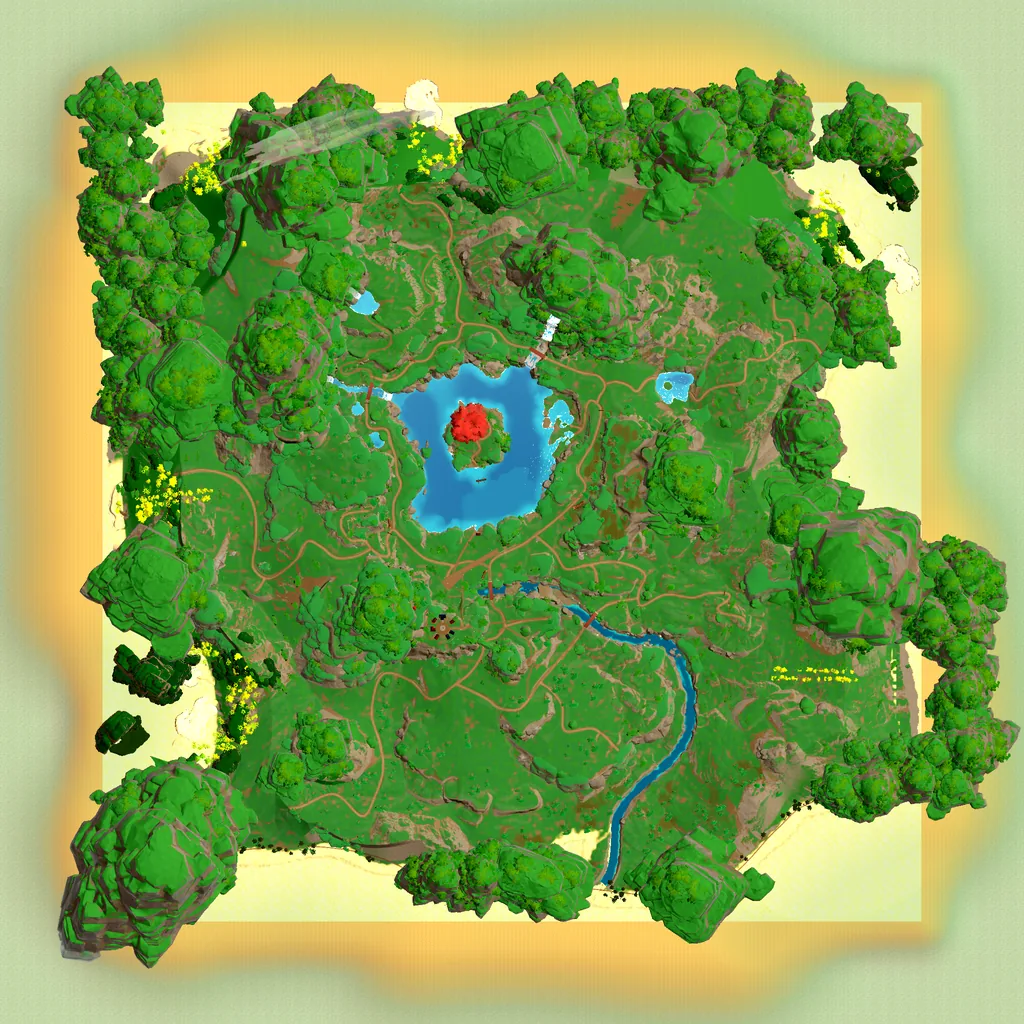
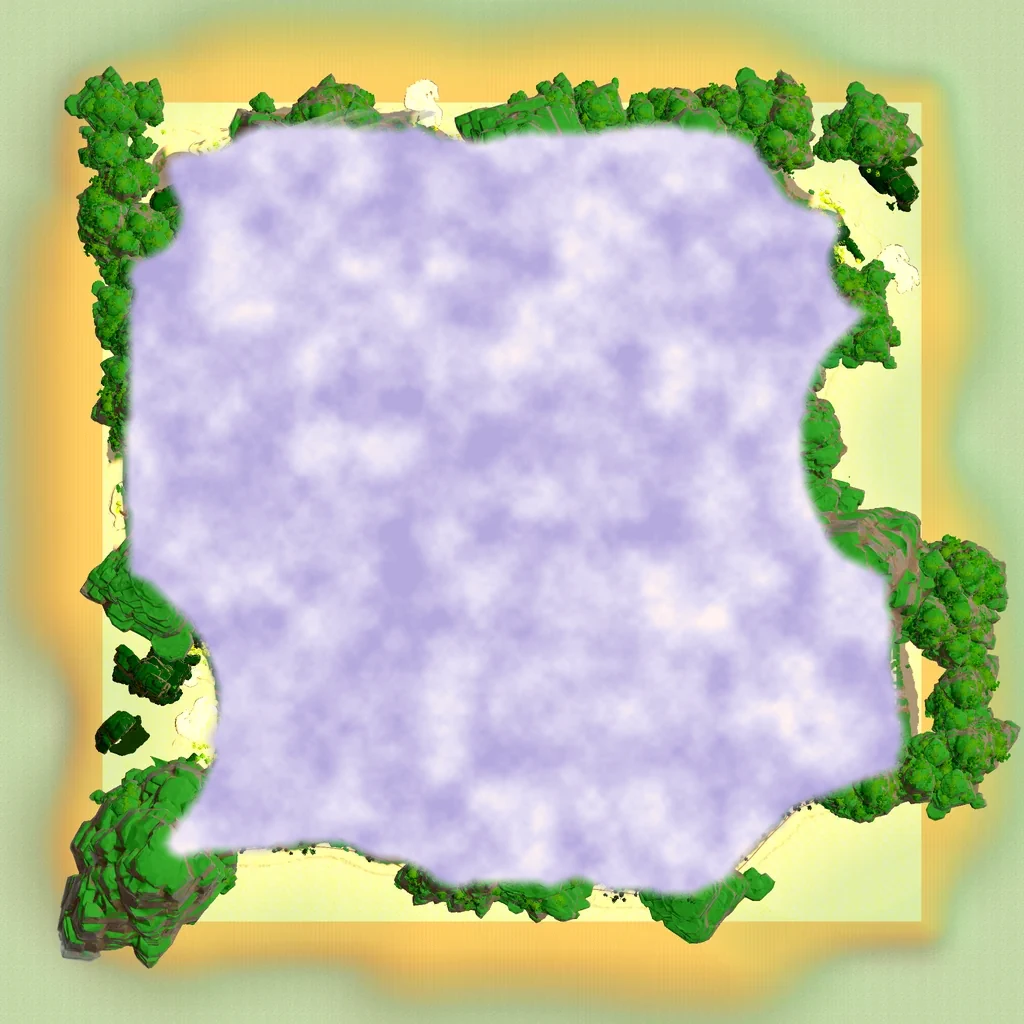
Cartes des îles PRIVÉES (pas publié) : le dépôt du site est public, la vraie carte n'y est plus — assets/pegase/ile_3d_* et carte_ile_* retirés ; la page de Pégase lit « pg:carte/<fichier> » dans le seau privé « pegase-cartes » du Storage avec le jeton du membre (pgCarte ; refusée ou absente : le de

diff --git a/source/shell2.js b/source/shell2.js
@@ -1122,6 +1122,7 @@ const CALLG = { seen: new Map(), cur: null, at: 0, polling: false, ringT: 0, too
 const TABS = { ch: null, hubAt: 0, sayAt: 0, ringRel: null, ringRetry: 0 };
 try { TABS.ch = new BroadcastChannel('jdw-appels'); } catch (e) { TABS.ch = null; }
 const tabSay = (m) => { try { if (TABS.ch) TABS.ch.postMessage(m); } catch (e) {} };
+if (window.JDW_PG_TEST) window.__jdwIsle = (cv, seed, q) => isleArt(cv, seed, 0, q);   // outils et essais seulement (vitrine.js)
 if (window.JDW_PG_TEST) window.__jdwT = { CALLG, ACCT, TABS, poll: () => { CALLG.at = 0; return callgPoll(); } };   // essais seulement (comme __pgCALL du hub)
 if (TABS.ch) TABS.ch.onmessage = (e) => {
   const m = (e && e.data) || {};
@@ -5692,8 +5693,10 @@ function pgvBook() {
   </div><p class="bk-glisse" aria-hidden="true">Glisse pour tourner la page →</p>`;
 }
 // L'ÎLE DE PÉGASE EN 3D AVEC LA MER (vitrine, 1.46.13 ; PATOU : « l'île, il faut l'afficher avec l'eau maintenant qu'elle est belle ! ») :
-// WebGL 1 sans bibliothèque. Relief = accueil/pgv-ile-h.png (256², hauteur 16 bits : R octet fort, G faible ; export du jeu), couleurs =
-// accueil/pgv-ile-couleur.webp (carte vue de dessus, nord en haut). Mer : turquoise et transparente près du bord (on voit le fond), bleu
+// WebGL 1 sans bibliothèque. Relief = accueil/pgv-ile-h.png (256², hauteur 16 bits : R octet fort, G faible), couleurs =
+// accueil/pgv-ile-couleur.webp (vue de dessus, nord en haut). ⛔ 28 oct. 2026 : ce sont les versions SOUS LA MER DE NUAGES (outil
+// ~/jdv-tools/ilo-a-venir/v4/ile3d_nuages.js) : la mer, les plages et la côte de la vraie île, l'intérieur en dôme de cumulus ; la vraie carte et le
+// vrai relief ne sont plus publics (le dépôt est public). Mer : turquoise et transparente près du bord (on voit le fond), bleu
 // profond au large, écume sur les plages, reflets du soleil, bord rond qui se fond dans la page. Tourne lentement ; ne dessine que
 // visible ; mouvement réduit = image fixe ; sans WebGL = l'image d'avant (repli dans le HTML).
 const PGV_ILE = { cote: 2250, min: -46.4, max: 193.95, mer: 14, ex: 1.25 };   // export de Pégase (ilot/hauteurs.txt, 27 oct. 2026) : carré de 2250 m, mer à 14 m
@@ -5867,7 +5870,7 @@ function pgvBuild() {
       <p>Ton avatar se prépare ici, dans la borne, et te suit dans le jeu.</p>
       <button type="button" class="pgv-btn ghost" data-go="isles">🏝 Voir les îles</button>
     </div>
-    <div class="pgv-isl pgv-rv"><img loading="lazy" decoding="async" alt="L’île de Pégase vue du ciel : le lac, l’arbre rouge, la rivière et les falaises" width="1024" height="694" src="${ROOT}assets/pegase/ile_3d_1024.webp" srcset="${ROOT}assets/pegase/ile_3d_1024.webp 1024w, ${ROOT}assets/pegase/ile_3d_2048.webp 2048w" sizes="(max-width: 760px) 100vw, 50vw"></div>
+    <div class="pgv-isl pgv-rv"><img loading="lazy" decoding="async" alt="L’île de Pégase vue du ciel, sous sa mer de nuages : on la découvre en l’explorant" width="1024" height="694" src="${ROOT}assets/pegase/ile_nuages_1024.webp" srcset="${ROOT}assets/pegase/ile_nuages_1024.webp 1024w, ${ROOT}assets/pegase/ile_nuages_2048.webp 2048w" sizes="(max-width: 760px) 100vw, 50vw"></div>
   </section>
   <section class="pgv-band music pgv-slide pgv-rv" aria-labelledby="pgv-h5">${pgvImg('prairie', 'La prairie la nuit sous la Voie lactée, les fleurs et les falaises', WF)}<div class="pgv-bandtx">
     <p class="pgv-kick">Musique</p><h3 class="pgv-h" id="pgv-h5">Une musique enchanteresse</h3>
@@ -6095,7 +6098,8 @@ function isleArt(cv, seed, players, q) {
       const im = new Image(); im.crossOrigin = 'anonymous'; im.decoding = 'async';
       im.onload = () => { ISLE_PHOTOS.set(tries[i], im); ok(im); };
       im.onerror = () => next(i + 1);
-      im.src = tries[i];
+      if (pgCarteOk(tries[i])) pgCarte(tries[i]).then((u) => { im.src = u; }, () => next(i + 1));   // carte privée (membre)
+      else im.src = tries[i];
     };
     next(0);
     const x0 = cv.getContext('2d'); cv.width = cv.clientWidth || 300; cv.height = cv.clientHeight || 170; x0.fillStyle = '#0a4f78'; x0.fillRect(0, 0, cv.width, cv.height);   // en attendant la photo
@@ -6310,16 +6314,33 @@ function isleNoise(x, y) {
 function isleFbm3(x, y) { return isleNoise(x * 0.866 - y * 0.5, x * 0.5 + y * 0.866) * 0.57 + isleNoise((x * 0.34 + y * 0.94) * 2.03 + 5.2, (-x * 0.94 + y * 0.34) * 2.03 + 1.3) * 0.29 + isleNoise((x * 0.98 - y * 0.2) * 4.1 + 9.1, (x * 0.2 + y * 0.98) * 4.1 + 3.7) * 0.14; }
 function isleFbm(x, y) { let s = 0, amp = 0.5, f = 1; for (let o = 0; o < 5; o++) { const c = Math.cos(o * 0.9), sn = Math.sin(o * 0.9); s += amp * isleNoise((x * c - y * sn) * f + o * 3.1, (x * sn + y * c) * f + o * 1.7); f *= 2.03; amp *= 0.5; } return s / 0.97; }
 // la côte du rendu 3D : liste en ligne ([[x, y], …] ou { p: […] }) ou adresse d'un .json (gardé en mémoire) ; null tant qu'elle manque
+// CARTES PRIVÉES (28 oct. 2026 ; le dépôt du site est PUBLIC : la vraie carte n'y est plus) : le serveur donne aux MEMBRES « pg:carte/<fichier> »
+// (pegase_int.ile_photo_monde) ; la page la lit dans le seau PRIVÉ « pegase-cartes » du Storage avec le jeton du compte (règle « pg cartes lire » : un compte
+// dont un pseudo habite une île). Gardée en mémoire le temps de la page seulement (rien dans les caches du navigateur). Refusée, absente : le dessin.
+const PG_CARTES = new Map();
+const pgCarteOk = (v) => typeof v === 'string' && /^pg:carte\/[a-z0-9_-]{2,60}\.(webp|jpg|json)$/.test(v);
+function pgCarte(v, json) {
+  if (!pgCarteOk(v)) return Promise.reject(new Error('carte : chemin refusé'));
+  const k = v + (json ? '#j' : ''); if (PG_CARTES.has(k)) return PG_CARTES.get(k);
+  const pr = (async () => {
+    const tok = await acctToken(profile); if (!tok) throw Object.assign(new Error('carte : compte requis'), { guest: true });
+    const r = await netFetch(CFG.url.replace(/\/+$/, '') + '/storage/v1/object/authenticated/pegase-cartes/' + v.slice(9), { headers: { apikey: CFG.key, Authorization: 'Bearer ' + tok } });   // « pg:carte/<fichier> »
+    if (!r.ok) throw Object.assign(new Error('carte ' + r.status), { status: r.status });
+    return json ? r.json() : URL.createObjectURL(await r.blob());
+  })();
+  PG_CARTES.set(k, pr); pr.catch(() => PG_CARTES.delete(k));
+  return pr;
+}
 const ISLE_JSON = new Map(), ISLE_JSON_WAIT = new Map();
 function isleJsonNow(v, check, again) {   // objet en ligne, ou adresse https d'un .json (chargé une fois, puis on redessine)
   if (!v) return null;
   if (typeof v !== 'string') return check(v);
-  if (!/^https:\/\//.test(v)) return null;
+  if (!/^https:\/\//.test(v) && !pgCarteOk(v)) return null;
   const got = ISLE_JSON.get(v); if (got && got !== 'wait') return got === 'bad' ? null : check(got);
   // TOUTES les cartes qui l'attendent sont redessinées quand il arrive (ou qu'il ne vient pas) : les îles ont la même photo, donc les mêmes .json,
   // et seule la première était redessinée (28 oct. 2026 : les autres restaient sans leurs nuages, la vraie carte en clair)
   if (again) { const ws = ISLE_JSON_WAIT.get(v) || []; ws.push(again); ISLE_JSON_WAIT.set(v, ws); }
-  if (!got) { ISLE_JSON.set(v, 'wait'); fetch(v).then(r => (r.ok ? r.json() : null)).catch(() => null).then((j) => { ISLE_JSON.set(v, j && check(j) ? j : 'bad'); const ws = ISLE_JSON_WAIT.get(v) || []; ISLE_JSON_WAIT.delete(v); for (const f of ws) try { f(); } catch (e) {} }); }
+  if (!got) { ISLE_JSON.set(v, 'wait'); (pgCarteOk(v) ? pgCarte(v, true) : fetch(v).then(r => (r.ok ? r.json() : null))).catch(() => null).then((j) => { ISLE_JSON.set(v, j && check(j) ? j : 'bad'); const ws = ISLE_JSON_WAIT.get(v) || []; ISLE_JSON_WAIT.delete(v); for (const f of ws) try { f(); } catch (e) {} }); }
   return null;
 }
 const isleCoastOk = (v) => { const a = Array.isArray(v) ? v : v && Array.isArray(v.p) ? v.p : null; return a && a.length > 8 && a.every(q => Array.isArray(q) && q.length >= 2 && isFinite(q[0]) && isFinite(q[1])) ? a : null; };
@@ -6480,9 +6501,11 @@ function islePhoto(cv, im, q, seed, players) {
   isleRun(cv, (t) => {
     t /= 1000;
     if (lastC < 0 || t - lastC > 0.12) { clouds(t); lastC = t; }   // les nuages dérivent très lentement : 8 calculs par seconde suffisent
-    x.setTransform(1, 0, 0, 1, 0, 0); x.drawImage(seaC, 0, 0); x.setTransform(k, 0, 0, k, 0, 0);
-    for (const [sx, sy, l, p0, sp] of sparks) { const a = 0.5 + 0.5 * Math.sin(t * 2 * sp + p0); if (a < 0.35) continue; const xx = (sx + t * 6 * sp) % (w + 20) - 10; x.strokeStyle = 'rgba(255,255,255,' + (0.2 * a).toFixed(3) + ')'; x.lineWidth = 1; x.beginPath(); x.moveTo(xx, sy); x.lineTo(xx + l, sy); x.stroke(); }
-    const bob = Math.sin(t * 0.9) * 2.5;
+    // q.vitrine (outil ~/jdv-tools/ilo-a-venir/v4/vitrine.js : l'image FIXE de la présentation, 28 oct. 2026) : ni la mer du soir, ni ses reflets,
+    // ni le voile du bord ; l'île, sa côte, son écume et sa mer de nuages, sur fond transparent
+    x.setTransform(1, 0, 0, 1, 0, 0); if (q.vitrine) x.clearRect(0, 0, cv.width, cv.height); else x.drawImage(seaC, 0, 0); x.setTransform(k, 0, 0, k, 0, 0);
+    if (!q.vitrine) for (const [sx, sy, l, p0, sp] of sparks) { const a = 0.5 + 0.5 * Math.sin(t * 2 * sp + p0); if (a < 0.35) continue; const xx = (sx + t * 6 * sp) % (w + 20) - 10; x.strokeStyle = 'rgba(255,255,255,' + (0.2 * a).toFixed(3) + ')'; x.lineWidth = 1; x.beginPath(); x.moveTo(xx, sy); x.lineTo(xx + l, sy); x.stroke(); }
+    const bob = q.vitrine ? 0 : Math.sin(t * 0.9) * 2.5;
     // l'écume qui épouse la côte et roule vers la plage (carte plate)
     if (iso && cpx) {
       const n = cpx.length, nsd2 = ((seed >>> 0) % 991) * 0.17;
@@ -6504,7 +6527,7 @@ function islePhoto(cv, im, q, seed, players) {
     x.setTransform(1, 0, 0, 1, 0, 0); x.drawImage(islC, 0, bob * k);
     x.imageSmoothingEnabled = true; x.imageSmoothingQuality = 'high'; x.drawImage(nubB, 0, bob * k, cw * DS * k, chh * DS * k);
     x.setTransform(k, 0, 0, k, 0, 0);
-    x.fillStyle = rad(x, w / 2, h / 2, Math.min(w, h) * 0.5, w / 2, h / 2, Math.max(w, h) * 0.78, [0, 'rgba(0,0,0,0)', 1, 'rgba(0,10,25,.4)']); x.fillRect(0, 0, w, h);
+    if (!q.vitrine) { x.fillStyle = rad(x, w / 2, h / 2, Math.min(w, h) * 0.5, w / 2, h / 2, Math.max(w, h) * 0.78, [0, 'rgba(0,0,0,0)', 1, 'rgba(0,10,25,.4)']); x.fillRect(0, 0, w, h); }
   });
 }
 // le serveur des îles (pg_island_*, île = salle ; ~/jdv-tools/pegase/server/INTEGRATION-iles.md) ; tant qu'il n'est pas en ligne (404) :
@@ -6516,7 +6539,7 @@ const KIND = { publique: '🌍 Publique', mdp: '🔒 Mot de passe', amis: '💛 
 let islTickets = store.get('jdw.iletickets', {}) || {};
 // r_fog : la carte de découverte du joueur (membre connecté seulement, sinon null → brume décorative) ; objet ou texte JSON
 // la vraie photo de l'île vue de dessus (rendue par le jeu, même rectangle que r_fog) : texte (adresse https) ou { url } ; le dessin sinon
-const islPhotoOf = (q) => { let v = q.r_photo || q.r_map || q.r_image; if (typeof v === 'string' && v[0] === '{') try { v = JSON.parse(v); } catch (e) {} const u = typeof v === 'string' ? v : v && v.url; return typeof u === 'string' && /^https:\/\//.test(u) ? { url: u, r: v && Array.isArray(v.r) ? v.r.map(Number) : null, proj: v && v.proj && (typeof v.proj === 'string' || isleProjOk(v.proj)) ? v.proj : null, cote: v && v.cote ? v.cote : null, plate: v && typeof v.plate === 'string' && /^https:\/\//.test(v.plate) ? v.plate : null } : null; };   // cote : la côte du rendu 3D (liste ou adresse .json)   // proj : rendu 3D à fond transparent (île flottante)
+const islPhotoOf = (q) => { let v = q.r_photo || q.r_map || q.r_image; if (typeof v === 'string' && v[0] === '{') try { v = JSON.parse(v); } catch (e) {} const u = typeof v === 'string' ? v : v && v.url; return typeof u === 'string' && (/^https:\/\//.test(u) || pgCarteOk(u)) ? { url: u, r: v && Array.isArray(v.r) ? v.r.map(Number) : null, proj: v && v.proj && (typeof v.proj === 'string' || isleProjOk(v.proj)) ? v.proj : null, cote: v && v.cote ? v.cote : null, plate: v && typeof v.plate === 'string' && (/^https:\/\//.test(v.plate) || pgCarteOk(v.plate)) ? v.plate : null } : null; };   // cote : la côte du rendu 3D (liste ou adresse .json)   // proj : rendu 3D à fond transparent (île flottante)
 const islFog = (v) => { try { const o = typeof v === 'string' ? JSON.parse(v) : v; return o && typeof o === 'object' && typeof o.b === 'string' && (o.n | 0) > 0 ? o : null; } catch (e) { return null; } };
 async function islesData() {
   if (ISL.srv !== false) {

diff --git a/source/cartes-privees-copie.ts b/source/cartes-privees-copie.ts
@@ -1,0 +1,24 @@
+// Fonction Edge « pegase-cartes-copie » (Supabase) — À DÉPLOYER ET LANCER UNE FOIS (28 oct. 2026), PUIS À RETIRER.
+// Copie la carte de l'île (7 fichiers), ENCORE publique sur le site à ce moment-là, dans le seau PRIVÉ « pegase-cartes » du Storage (voir
+// source/cartes-privees.sql : partie 1 avant, partie 2 après). Sans argument ; rejouable (upsert : rien ne se double). Répond ce qui a été copié,
+// avec la taille de chaque fichier (à comparer au contrôle 1 du SQL). Ne lit et n'écrit RIEN d'autre.
+import { createClient } from 'npm:@supabase/supabase-js@2';
+
+const SITE = 'https://elixirgamestudio.com/assets/pegase/';
+const FILES: [string, string][] = [
+  ['ile_3d_1024.webp', 'image/webp'], ['ile_3d_2048.webp', 'image/webp'], ['ile_3d_proj.json', 'application/json'], ['ile_3d_cote.json', 'application/json'],
+  ['carte_ile_1024.webp', 'image/webp'], ['carte_ile_1024.jpg', 'image/jpeg'], ['carte_ile_2048.webp', 'image/webp'],
+];
+
+Deno.serve(async () => {
+  const sb = createClient(Deno.env.get('SUPABASE_URL')!, Deno.env.get('SUPABASE_SERVICE_ROLE_KEY')!);
+  const out: { f: string; ok: boolean; octets?: number; why?: string }[] = [];
+  for (const [f, type] of FILES) {
+    const r = await fetch(SITE + f + '?copie=' + Date.now(), { cache: 'no-store' });
+    if (!r.ok) { out.push({ f, ok: false, why: 'site ' + r.status }); continue; }
+    const body = new Uint8Array(await r.arrayBuffer());
+    const { error } = await sb.storage.from('pegase-cartes').upload(f, body, { contentType: type, upsert: true, cacheControl: '3600' });
+    out.push(error ? { f, ok: false, octets: body.length, why: error.message } : { f, ok: true, octets: body.length });
+  }
+  return new Response(JSON.stringify(out, null, 1), { headers: { 'content-type': 'application/json; charset=utf-8' } });
+});

diff --git a/source/verifier-publication.js b/source/verifier-publication.js
@@ -13,10 +13,9 @@ const files = execSync('git ls-files -co --exclude-standard', { cwd: ROOT, encod
   .filter(f => fs.existsSync(path.join(ROOT, f)));
 const bad = [];
 const IMG_OK = [/^icon-(maskable-)?\d+\.png$/, /^android(-apktool)?\/.*ic_launcher(_round|_foreground|_background|_monochrome)?\.png$/, /^android\/icon-512\.png$/, /^accueil\/[a-z0-9_-]+\.(webp|jpg|jpeg|png|webm|svg)$/,
-  /^assets\/pegase\/carte_ile_(1024|2048)\.(webp|jpg)$/,
   /^assets\/pegase\/decor(_\d{2}[a-z]?)?(_portrait|_m)?_poster\.(jpg|webp)$/,   // affiche du décor filmé dans le jeu (prairie, aucune personne)
   /^assets\/ilo\/ilo_(boucle|bande_annonce)(_m)?_poster\.(jpg|webp)$/,   // affiches d'ILO filmées dans le jeu (espace, vaisseau, aucune personne), 27 oct. 2026
-  /^assets\/pegase\/ile_3d(_\d+)?\.(png|webp)$/];   // rendu 3D de l'île (fond transparent, aucune personne)   // carte de l'île de Pégase vue de dessus (rendu du jeu, aucune personne), 24 oct. 2026
+  /^assets\/pegase\/ile_nuages_(1024|2048)\.webp$/];   // l'île SOUS SA MER DE NUAGES (image fixe de la présentation, rendue par ~/jdv-tools/ilo-a-venir/v4/vitrine.js ; 28 oct. 2026 : la vraie carte n'est plus publique)   // rendu 3D de l'île (fond transparent, aucune personne)   // carte de l'île de Pégase vue de dessus (rendu du jeu, aucune personne), 24 oct. 2026
 const TEXT = /\.(html?|js|mjs|json|md|txt|sql|sh|css|java|xml|yml|webmanifest|svg|py|gradle|properties|hex)$/i;
 for (const f of files) {
   const full = path.join(ROOT, f), buf = fs.readFileSync(full);

diff --git a/CLAUDE.md b/CLAUDE.md
@@ -566,3 +566,4 @@ magicv1 retiré le 18 oct.
 **Salles « sans Pégase » (borne 1.49.6, 28 oct. 2026 ; Benjamin : « tous les gens de Les couverts, il faut leur donner accès qu'à la borne et à leur salle, mais pas à l'onglet Pégase »)** : `rooms.pegase` (vrai par défaut ; faux pour la salle 6 « Les couverts ») — `source/salles-sans-pegase.sql`. Un JOUEUR (pseudo) dont TOUTES les salles sont « sans Pégase » (et qui en a au moins une) ne voit rien de Pégase : `pg_acces(p_code, p_name)` → false ; la borne retient le pseudo dans `jdw.pgsans` et, au chargement, `PG_SANS` (en tête de shell2.js) retire Pégase de `GAMES` → elle s'ouvre comme une borne sans Pégase (ni onglet, ni îles, ni Regarder, ni hub, ni appels, ni notes [pegase] dans la cloche ; `?pegase` / `?ile=` ignorés). Section « Salles sans Pégase » de shell2.js : revu au battement de présence (autre joueur ou autre salle : tout de suite, sinon toutes les 2 min), rechargement UNE fois au calme quand ça change (anti-boucle `jdw.pgsansfor`, sessionStorage). Serveur : déclencheur `pg_ile_membres_salle` (avant insertion dans `pg_ile_membres`) → aucune île pour eux (pg_island_join, pg_island_create…), rien d'effacé. Visiteur sans compte, joueur sans salle, ou serveur sans `pg_acces` : rien ne change. Essai : `~/jdv-tools/ilo-a-venir/v4/couverts_check.js` (faux comptes ENZO / PATOU, captures `shots/couverts-*.png`).
 **Cartes des îles : JAMAIS la vraie carte sans sa mer de nuages** (borne 1.49.8, 28 oct. 2026 ; « fuite de la carte » signalée par Benjamin) : toutes les îles ont la même photo (`pegase_int.ile_photo_monde` : `assets/pegase/ile_3d_1024.webp` + `ile_3d_proj.json` + `ile_3d_cote.json`, carte plate `carte_ile_*`) et les nuages du rendu 3D se placent avec `proj`. `islePhoto` : tant que `proj` se charge, la mer seule ; s'il ne vient pas, la carte plate (ses nuages ne dépendent de rien), sinon le dessin. `isleJsonNow` garde TOUS les rappels d'un même .json (avant : seule la première carte était redessinée, les autres restaient en clair). Essai : `~/jdv-tools/ilo-a-venir/v4/nuages_check.js` (2 et 4 cartes, connexion lente, rechargements, liste redessinée pendant le chargement, proj ou carte plate introuvables, membre avec sa découverte). Le serveur n'envoie plus `r_photo` qu'aux membres de l'île (JDCEA, 28 oct.).
 **Séparation borne / Pégase (borne 1.50, 28 oct. 2026 ; Benjamin : « On va séparer la borne de Pégase. ILO sera dans la page principale. Pégase sera dans sa propre fenêtre, quand on cliquera sur « Jouer à Pégase » […] parce que les gens qui arrivent dans la borne se perdent » ; décisions de JDCEA)** : TROIS pages. `index.html` (source/accueil.html) = le studio : ILO en vedette en haut (bande-annonce dans la carte, jamais agrandie), puis les deux portes « 🏝 Jouer à Pégase » (pegase/, nouvel onglet sur PC) et « 🕹 La borne d'arcade » (jouer/), puis le studio. `jouer/index.html` = la borne construite SANS Pégase (publier.sh `SKIP_GAMES=pegase`) : petit lien « Pégase → » en haut (siteGo : nouvel onglet sur PC, même vue sur téléphone et dans l'appli) ; un script en tête renvoie `?pegase`, `?ile=`, `?appel=` vers pegase/ AVANT de charger la borne. `pegase/index.html` = la même bibliothèque avec `PAGE=pegase` (build2.py ; `window.JDW_PAGE`) et Pégase seul : toujours en mode Pégase, « Nos autres jeux » devient « La borne d'arcade » ; pas de service worker (un seul jeu de caches pour le site, celui de la borne) ; joueur « sans Pégase » : page fermée (pgClosed). Benjamin, dans la conversation : PAS de bouton en plus (« ça rajoute un bouton ça ne va pas » : on appelle ses amis depuis Pégase) et le menu « ⋯ » en haut (« regroupe plusieurs boutons en haut sous 3 petits points » : #jdw-more, les MÊMES boutons rangés dedans, leur aria-label en toutes lettres). APPELS partout : le bandeau sonne sur les trois pages ; Décrocher hors de Pégase ouvre `pegase/?appel=<id>&de=` (le hub fait sonner, un toucher : `appelPris().tap`) ; pendant un appel (`api.pegase.appelEnCours`), les liens du site s'ouvrent dans un nouvel onglet (appli : un mot, rien ne bouge). PLUSIEURS ONGLETS : un seul sonne (verrou `jdw-sonnerie`, canal `jdw-appels`) ; les jetons de compte se rafraîchissent un onglet à la fois (verrou `jdw-acct-<uid>`, acctAdopt / acctSave, événement storage) — sinon le 2e onglet présentait un jeton déjà consommé et la session était perdue. Essais : `~/jdv-tools/ilo-a-venir/v4/separation_check.js` et `onglets_check.js`.
+**Cartes des îles PRIVÉES (28 oct. 2026 ; le dépôt du site est PUBLIC)** : la vraie carte (assets/pegase/ile_3d_*, carte_ile_*) n'est plus dans le dépôt ; elle est dans le seau PRIVÉ « pegase-cartes » du Storage (source/cartes-privees.sql : règle « pg cartes lire » = un compte dont un pseudo habite une île ; copie par la fonction source/cartes-privees-copie.ts). pg_island_list la donne aux membres en « pg:carte/<fichier> » ; la page de Pégase la lit avec le jeton du compte (pgCarte, gardée en mémoire seulement) ; refusée ou absente : le dessin. La présentation : l'île 3D (pgvIsle) se dessine avec accueil/pgv-ile-couleur.webp et pgv-ile-h.png, désormais SOUS LA MER DE NUAGES (outil ~/jdv-tools/ilo-a-venir/v4/ile3d_nuages.js : mer, plages, côte, et l'intérieur en dôme de cumulus) ; sans WebGL : assets/pegase/ile_nuages_1024|2048.webp (outil vitrine.js, q.vitrine de islePhoto). Les originaux sont dans ~/jdv-tools/ilo-a-venir/cartes-privees/ (et dans l'historique public du dépôt : pas de réécriture). Essai : nuages_check.js (cas « privée : … »).
